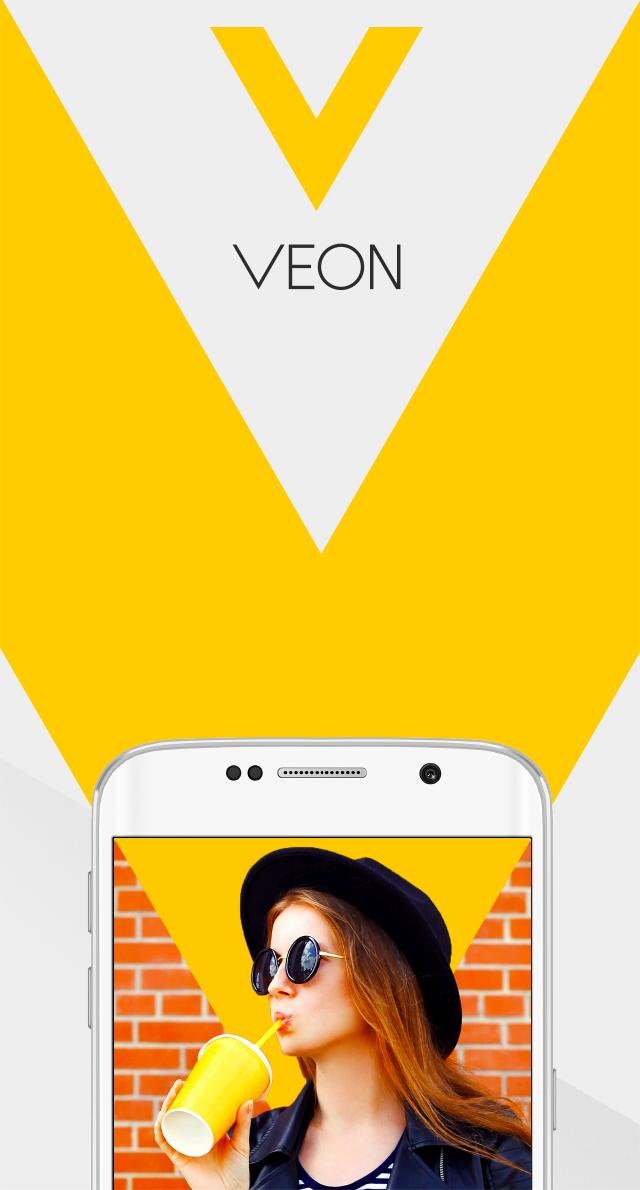
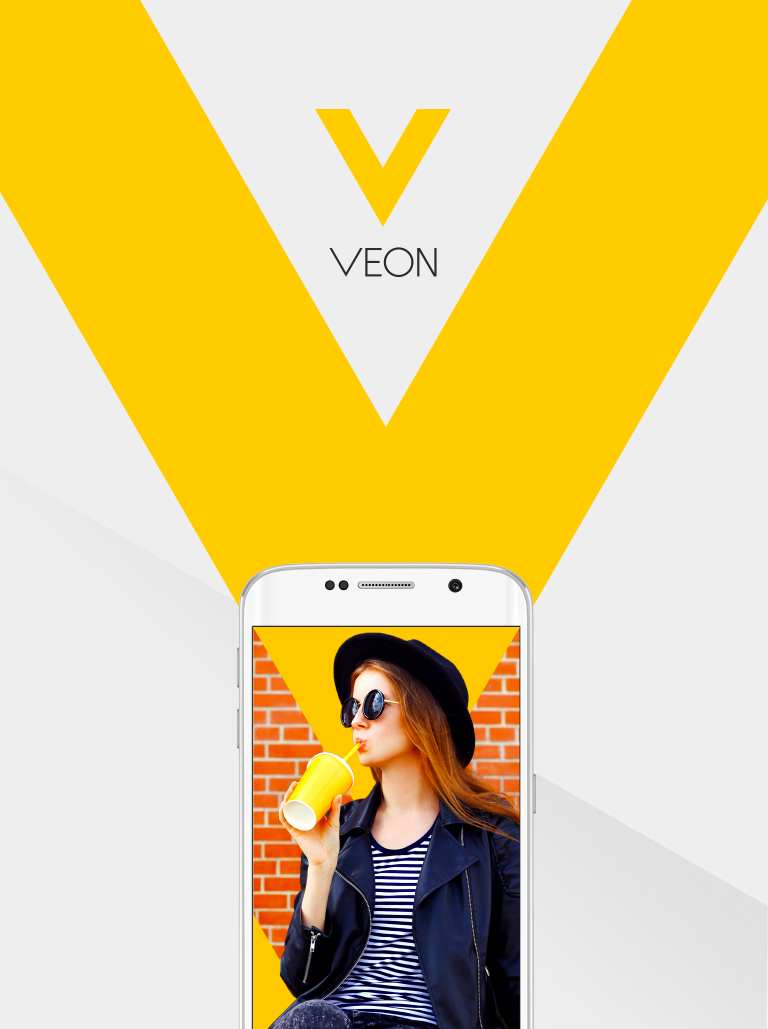
update

diff --git a/fileadmin/css-landing/landing.css b/fileadmin/css-landing/landing.css
@@ -585,13 +585,14 @@ $color_bt_disabled: $color_grey_medium_light;*/
   .landing .landing__hero .veon_background {
     background-image: url("/fileadmin/img-landing/backgrounds/veon_hero_background.png");
     background-repeat: no-repeat;
-    background-position: top right;
+    background-position: top center !important;
     padding-bottom: 25px;
     background-size: cover;
-    height: 595px; }
+    overflow: hidden; }
     @media (max-width: 768px) {
       .landing .landing__hero .veon_background {
-        background-position: center center;
+        height: 675px;
+        background-position: top center;
         background-image: url("/fileadmin/img-landing/backgrounds/veon_hero_background_small.png"); } }
   .landing .landing__hero .easy-europe_background {
     background-image: url("/fileadmin/img-landing/backgrounds/easy-europe_hero_background.jpg");
@@ -2372,11 +2373,20 @@ h6 {
     vertical-align: middle; }
   .landing .vertical_bottom {
     vertical-align: bottom; }
-  .landing .margin_top_130 {
-    margin-top: 130px !important; }
+  .landing .margin_top_150 {
+    margin-top: 150px !important; }
   @media (max-width: 768px) {
-    .landing .margin_top_m_130 {
-      margin-top: 130px !important; } }
+    .landing .margin_top_m_150 {
+      margin-top: 150px !important; } }
+  @media (max-width: 600px) {
+    .landing .margin_top_m_150 {
+      margin-top: 150px !important; } }
+  @media (max-width: 768px) {
+    .landing .margin_top_special_veon {
+      margin-top: calc(75px + 20vw) !important; } }
+  @media (max-width: 600px) {
+    .landing .margin_top_special_veon {
+      margin-top: calc(75px + 20vw) !important; } }
   .landing .margin_top_0 {
     margin-top: 0px !important; }
   .landing .margin_bottom_0 {
@@ -2439,6 +2449,9 @@ h6 {
   @media (max-width: 600px) {
     .landing .only_desktop {
       display: none !important; } }
+  @media (max-width: 768px) {
+    .landing .only_desktop_768 {
+      display: none !important; } }
   .landing .only_mobile_medium {
     display: none; }
     @media (max-width: 910px) {
@@ -2451,6 +2464,11 @@ h6 {
     display: none !important; }
     @media (max-width: 600px) {
       .landing .only_mobile {
+        display: block !important; } }
+  .landing .only_mobile_768 {
+    display: none !important; }
+    @media (max-width: 768px) {
+      .landing .only_mobile_768 {
         display: block !important; } }
   .landing .mac {
     margin: 0; }

diff --git a/LandingRestyle/html/partials/hero/hero_veon.html b/LandingRestyle/html/partials/hero/hero_veon.html
@@ -6,15 +6,15 @@
         <div class="container veon_background">
             <div class="landing__hero--title padding_bottom_15 padding_bottom_m_5">
                 <h1 class="margin_bottom_m_10 margin_bottom_10">
-                    <span class="landing__hero--title--mainTitle padding_top_50 font_size_90 font_light text_color_base font_size_m_50 font_weight_initial display_block reduced_letter_spacing vw_font_90 margin_top_m_130 margin_bottom_m_0 mobile_centered">INESAURIBILE<br> COME TE</span>
+                    <span class="landing__hero--title--mainTitle padding_top_50 font_size_80 font_light text_color_base font_size_m_40 font_weight_initial display_block reduced_letter_spacing vw_font_80 margin_top_special_veon margin_bottom_m_0 mobile_centered">INESAURIBILE<br> COME TE</span>
                 </h1>
             </div>
             <div class="margin_bottom_50">
-                <div class="hero_claim font_size_40 font_size_m_24 font_light mobile_centered">Chatti, chiami e con Wind
+                <div class="hero_claim font_size_40 font_size_m_20 font_light mobile_centered">Chatti, chiami e con Wind
                     <br class="only_desktop">fai il pieno di Giga.
                     <br class="only_desktop">Tutto in un’App.</div>
             </div>
-            <div class="download_veon only_desktop">
+            <div class="download_veon only_desktop_768">
                 <div class="margin_bottom_25 margin_bottom_m_15">
                     <div class="hero_claim font_size_24 font_size_m_18 font_light ">Scarica Veon gratuitamente</div>
                 </div>
@@ -27,7 +27,7 @@
         <h2>più amici <br class="only_mobile_medium">più vantaggi</h2>
     </div> -->
 </div>
-<div class="container download_veon only_mobile margin_top_20 margin_bottom_20">
+<div class="container download_veon only_mobile_768 margin_top_20 margin_bottom_20">
     <div class="margin_bottom_25 margin_bottom_m_15">
         <div class="hero_claim font_size_24 font_size_m_18 font_light text_uppercase text_centered">Scarica Veon gratuitamente</div>
     </div>

diff --git a/LandingRestyle/scss/landing.scss b/LandingRestyle/scss/landing.scss
@@ -117,7 +117,7 @@ h6 {
     }
     .display_forced_inline {
         display: inline-block !important;
-    }    
+    }
     .vertical_top {
         vertical-align: top;
     }
@@ -127,12 +127,23 @@ h6 {
     .vertical_bottom {
         vertical-align: bottom;
     }
-    .margin_top_130 {
-        margin-top: 130px !important;
+    .margin_top_150 {
+        margin-top: 150px !important;
     }
-    .margin_top_m_130 {
+    .margin_top_m_150 {
         @include breakpoint(small) {
-            margin-top: 130px !important;
+            margin-top: 150px !important;
+        }
+        @include breakpoint(tiny) {
+            margin-top: 150px !important;
+        }
+    }
+    .margin_top_special_veon {
+        @include breakpoint(small) {
+            margin-top: calc(75px + 20vw) !important;
+        }
+        @include breakpoint(tiny) {
+            margin-top: calc(75px + 20vw) !important;
         }
     }
     .margin_top_0 {
@@ -228,6 +239,11 @@ h6 {
             display: none !important;
         }
     }
+    .only_desktop_768 {
+        @include breakpoint(small) {
+            display: none !important;
+        }
+    }
     .only_mobile_medium {
         display: none;
         @include breakpoint(medium) {
@@ -240,6 +256,12 @@ h6 {
     .only_mobile {
         display: none !important;
         @include breakpoint(tiny) {
+            display: block !important;
+        }
+    }
+    .only_mobile_768 {
+        display: none !important;
+        @include breakpoint(small) {
             display: block !important;
         }
     }

diff --git a/LandingRestyle/scss/partials/main/_hero.scss b/LandingRestyle/scss/partials/main/_hero.scss
@@ -298,15 +298,16 @@
                 .veon_background {
                     background-image: url("/fileadmin/img-landing/backgrounds/veon_hero_background.png");
                     background-repeat: no-repeat;
-                    background-position: top right;
+                    background-position: top center !important;
                     padding-bottom: 25px;
                     background-size: cover;
-                    height: 595px;
+                    overflow: hidden;
                     @include breakpoint(small) {
-                        background-position: center center;
+                        height: 675px;
+                        background-position: top center;
                         background-image: url("/fileadmin/img-landing/backgrounds/veon_hero_background_small.png");
                     }
-                }                
+                }
                 .easy-europe_background {
                     background-image: url("/fileadmin/img-landing/backgrounds/easy-europe_hero_background.jpg");
                     background-repeat: no-repeat;
